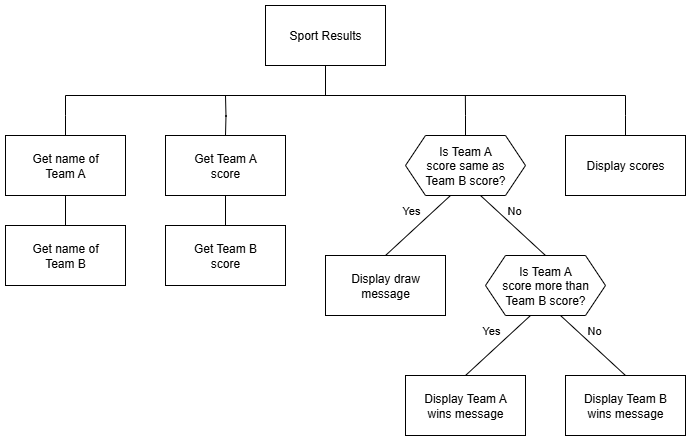
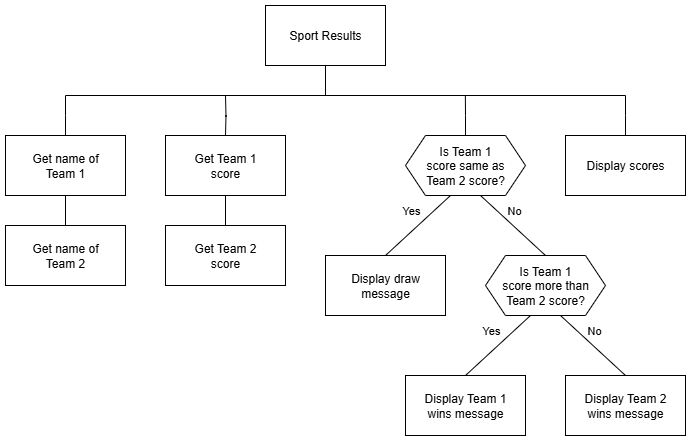
Updated

diff --git a/n5-cs/sdd/N5-SDD-Sport-Results/assets/solution1.py b/n5-cs/sdd/N5-SDD-Sport-Results/assets/solution1.py
@@ -3,30 +3,30 @@
 # Date 4 Oct 2025
 
 # Initialise variables
-nameTeamA = ""
-nameTeamB = ""
-scoreTeamA = 0
-scoreTeamB = 0
+nameTeam1 = ""
+nameTeam2 = ""
+scoreTeam1 = 0
+scoreTeam2 = 0
 
 # Display header
 print("BBC Sport Results")
 print("-----------------")
 
 
-# Get name of Team A
+# Get name of Team 1
 print()
-nameTeamA = input("Team A name: ")
+nameTeam1 = input("Team 1 name: ")
 
-# Get name of Team B
-nameTeamB = input("Team B name: ")
+# Get name of Team 2
+nameTeam2 = input("Team 2 name: ")
 
 
-# Get score of Team A
+# Get score of Team 1
 print()
-scoreTeamA = int(input(nameTeamA + " score: "))
+scoreTeam1 = int(input(nameTeam1 + " score: "))
 
-# Get score of Team B
-scoreTeamB = int(input(nameTeamB + " score: "))
+# Get score of Team 2
+scoreTeam2 = int(input(nameTeam2 + " score: "))
 
 
 # Display seperator
@@ -35,30 +35,30 @@ print("-----------------")
 print()
 
 
-# Is Team A score same as Team B score?
-if scoreTeamA == scoreTeamB:
+# Is Team 1 score same as Team 2 score?
+if scoreTeam1 == scoreTeam2:
     
     # Display draw message
     print("It's a draw!")
     
 else:
     
-    # Is Team A score same as Team B score?
-    if scoreTeamA > scoreTeamB:
+    # Is Team 1 score more than Team 2 score?
+    if scoreTeam1 > scoreTeam2:
     
-        # Display Team A wins message
-        print(nameTeamA + " wins!")
+        # Display Team 1 wins message
+        print(nameTeam1 + " wins!")
         
     else:
     
-        # Display Team B wins message
-        print(nameTeamB + " wins!")
+        # Display Team2 wins message
+        print(nameTeam2 + " wins!")
 
 
 # Display scores
 print()
-print(nameTeamA + " " + str(scoreTeamA) + ":" +
-      str(scoreTeamB) + " " + nameTeamB)
+print(nameTeam1 + " " + str(scoreTeam1) + ":" +
+      str(scoreTeam2) + " " + nameTeam2)
 
 # Display footer
 print()

diff --git a/n5-cs/sdd/N5-SDD-Sport-Results/README.md b/n5-cs/sdd/N5-SDD-Sport-Results/README.md
@@ -30,8 +30,8 @@ Examples of the expected user interface are shown below with some possible input
 BBC Sport Results
 -----------------
 
-Team A name: Barra FC
-Team A name: Iochdar Saints
+Team 1 name: Barra FC
+Team 2 name: Iochdar Saints
 
 Barra FC score: 6
 Iochdar Saints score: 2
@@ -52,8 +52,8 @@ Barra FC 6:2 Iochdar Saints
 BBC Sport Results
 -----------------
 
-Team A name: Celtic
-Team A name: Caley Thistle
+Team 1 name: Celtic
+Team 2 name: Caley Thistle
 
 Celtic score: 2
 Caley Thistle score: 3
